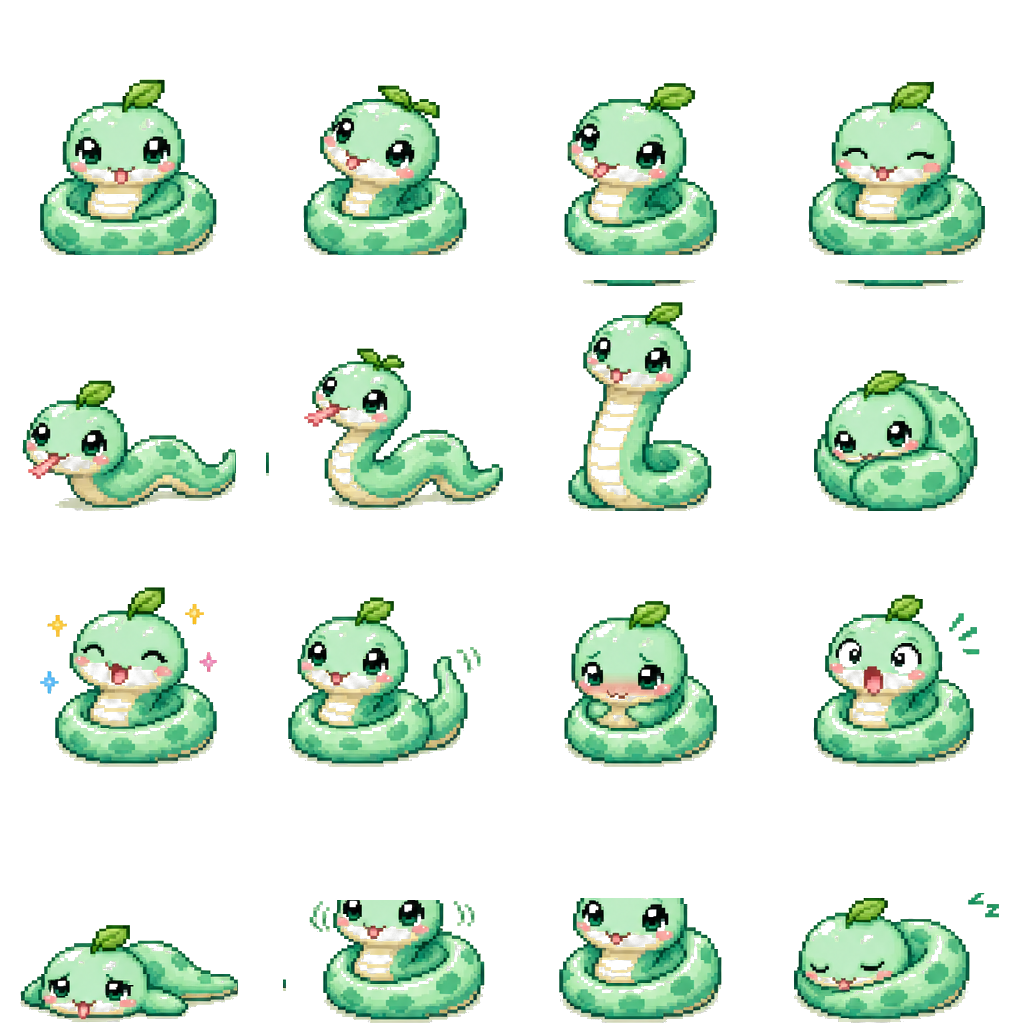
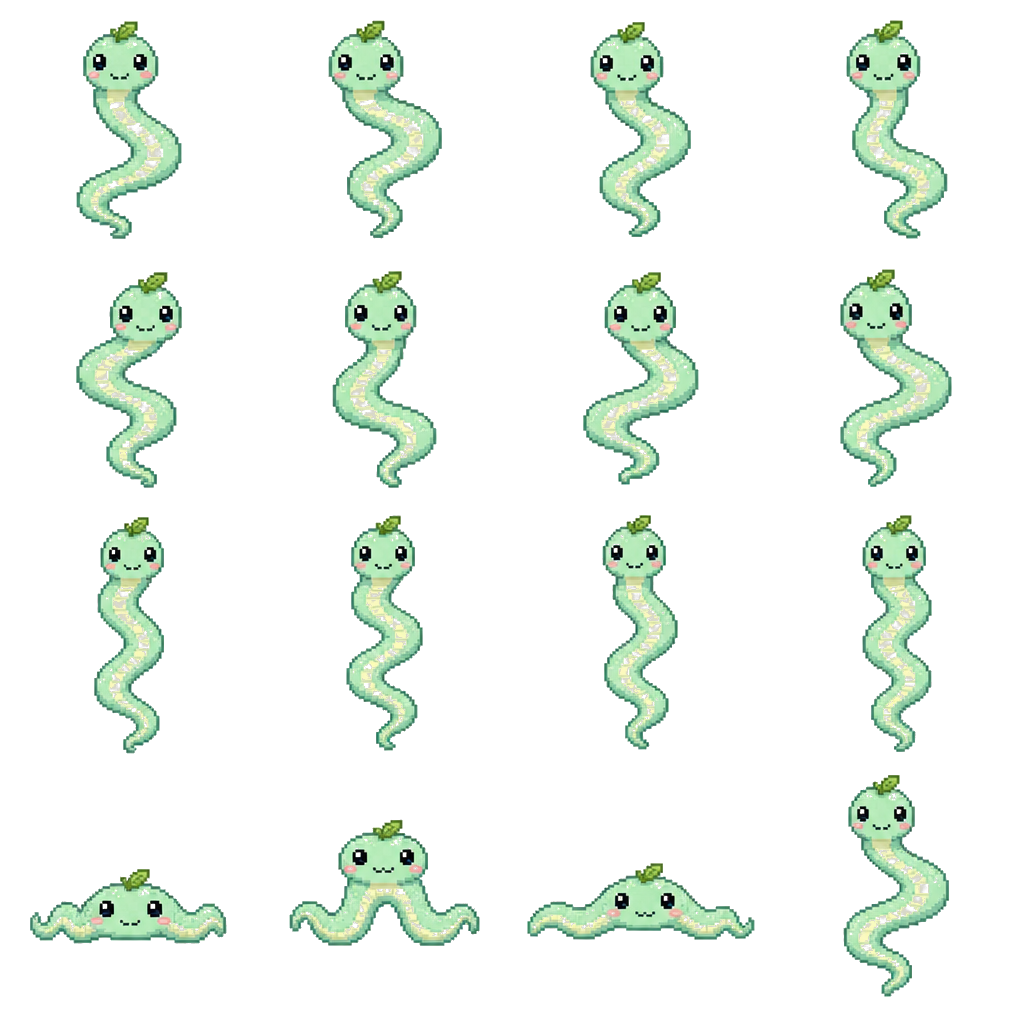
fix(menta): storyboard completo frontal — cuerpo largo ondulante sin suelo ni espalda; 4 frames de slither horizontal + 4 de crawl vertical; movimiento continuo lento sin flip

diff --git a/app/src/main/java/com/pixelpals/app/feature/overlay/behavior/MentaBehavior.kt b/app/src/main/java/com/pixelpals/app/feature/overlay/behavior/MentaBehavior.kt
@@ -2,19 +2,17 @@ package com.pixelpals.app.feature.overlay.behavior
 
 import com.pixelpals.app.core.domain.PetState
 import com.pixelpals.app.core.motion.PetRandom
-import kotlin.math.PI
-import kotlin.math.abs
 import kotlin.math.roundToInt
 import kotlin.math.sin
 
 /**
  * MentaBehavior — Serpientita de menta.
  * Se desliza por TODA la pantalla como una serpiente real:
- *  - Cruza horizontalmente de lado a lado (frames de slither 4-5),
- *  - Sube y baja verticalmente estirándose (frames de stretch 6-7),
+ *  - Cruza horizontalmente de lado a lado (frames de slither 4-7),
+ *  - Sube y baja verticalmente estirándose (frames de stretch 8-11),
  *  - SIEMPRE de frente a su dirección (nunca mira hacia un lado raro),
  *  - Deslizamiento lento y continuo: sin golpeteos de cabeza ni tirones.
- * IA atlas: idle (0-3), slither (4-5), stretch (6-7), happy (8-11), touch (12-14), sleep (15).
+ * IA atlas: idle (0-3), slither (4-7), stretch (8-11), touch (12-14), sleep (15).
  */
 class MentaBehavior(
     bridge: PetViewBridge,
@@ -112,7 +110,7 @@ class MentaBehavior(
             }
             return
         }
-        val eased = sin((t * PI).toFloat() / 2f)
+        val eased = t
         val x = startX + (cruiseTargetX - startX) * eased
         val y = startY + (cruiseTargetY - startY) * eased
         params.x = x.roundToInt()
@@ -123,12 +121,12 @@ class MentaBehavior(
         bridge.animOffsetX = sin(time * 2.2f) * 4f
         bridge.animOffsetY = sin(time * 1.6f) * 2f
         bridge.animRotation = 0f   // siempre de frente, sin golpeteos de cabeza
-        bridge.animScaleX = if (facingRight) 1f else -1f
+        bridge.animScaleX = 1f
         bridge.animScaleY = 1f + sin(time * 2.0f) * 0.02f
 
-        // Frames de slither alternando MUY lento (sensación de deslizamiento)
-        val progress = (time * 1.3f).toInt() % 2
-        bridge.currentFrame = if (progress == 0) 4 else 5
+        // La onda viaja por el cuerpo completo: cuatro poses, no solo cabeceo.
+        val progress = (time * 1.45f).toInt() % 4
+        bridge.currentFrame = 4 + progress
 
         if (random.nextFloat() < 0.00025f) {
             mode = Mode.HAPPY
@@ -151,16 +149,16 @@ class MentaBehavior(
             }
             return
         }
-        val eased = sin((t * PI).toFloat() / 2f)
+        val eased = t
         val x = startX + (cruiseTargetX - startX) * eased
         val y = startY + (cruiseTargetY - startY) * eased
         params.x = x.roundToInt()
         params.y = y.roundToInt()
         bridge.updateWindowLayout(params)
 
-        // Estirándose hacia arriba/abajo: frames de stretch, rotación 0 (frente)
-        val progress = (time * 1.1f).toInt() % 2
-        bridge.currentFrame = if (progress == 0) 6 else 7
+        // La onda vertical también recorre el cuerpo completo.
+        val progress = (time * 1.25f).toInt() % 4
+        bridge.currentFrame = 8 + progress
         bridge.animRotation = 0f
         bridge.animScaleX = 1f
         bridge.animScaleY = 1f
@@ -242,9 +240,9 @@ class MentaBehavior(
     override fun updateDrag(dt: Float) {
         // Al arrastrar, la serpiente se desliza suave (no se congela).
         time += dt
-        bridge.currentFrame = if (((time * 1.3f).toInt() % 2) == 0) 4 else 5
+        bridge.currentFrame = 4 + ((time * 1.45f).toInt() % 4)
         bridge.animOffsetX = sin(time * 2.2f) * 3f
-        bridge.animScaleX = if (facingRight) 1f else -1f
+        bridge.animScaleX = 1f
         bridge.animScaleY = 1f
         bridge.animRotation = 0f
     }

diff --git a/app/src/main/java/com/pixelpals/app/PetView.kt b/app/src/main/java/com/pixelpals/app/PetView.kt
@@ -153,7 +153,7 @@ class PetView(
         PetType.YUKI -> floatArrayOf(0.6641f, 0.6719f, 0.6641f, 0.6641f, 0.6797f, 0.6797f, 0.8672f, 0.8516f, 0.6602f, 0.6602f, 0.6602f, 0.6602f, 0.4883f, 0.4883f, 0.4805f, 0.5078f)
         PetType.PIRU -> floatArrayOf(0.6641f, 0.6797f, 0.6719f, 0.6602f, 0.4297f, 0.4453f, 0.7266f, 0.6797f, 0.6719f, 0.6328f, 0.6289f, 0.6328f, 0.3477f, 0.457f, 0.4922f, 0.4883f)
         PetType.TARO -> floatArrayOf(0.6094f, 0.5781f, 0.6055f, 0.6055f, 0.5664f, 0.5664f, 0.5898f, 0.5664f, 0.6445f, 0.5664f, 0.5938f, 0.6641f, 0.4688f, 0.4688f, 0.4688f, 0.4688f)
-        PetType.MENTA -> floatArrayOf(0.6875f, 0.6641f, 0.6719f, 0.6797f, 0.5117f, 0.6328f, 0.9023f, 0.9023f, 0.7031f, 0.6641f, 0.6484f, 0.6758f, 0.3789f, 0.4805f, 0.4883f, 0.5078f)
+        PetType.MENTA -> floatArrayOf(0.8516f, 0.8555f, 0.8438f, 0.8555f, 0.8438f, 0.8477f, 0.8320f, 0.8516f, 0.9258f, 0.9219f, 0.9180f, 0.9258f, 0.2930f, 0.4961f, 0.3008f, 0.8672f)
         PetType.TELA -> floatArrayOf(0.8359f, 0.8555f, 0.8281f, 0.8398f, 0.7969f, 0.8633f, 0.8203f, 0.8711f, 0.7969f, 0.7891f, 0.7891f, 0.8125f, 0.7461f, 0.7539f, 0.7695f, 0.8047f)
     }
 
